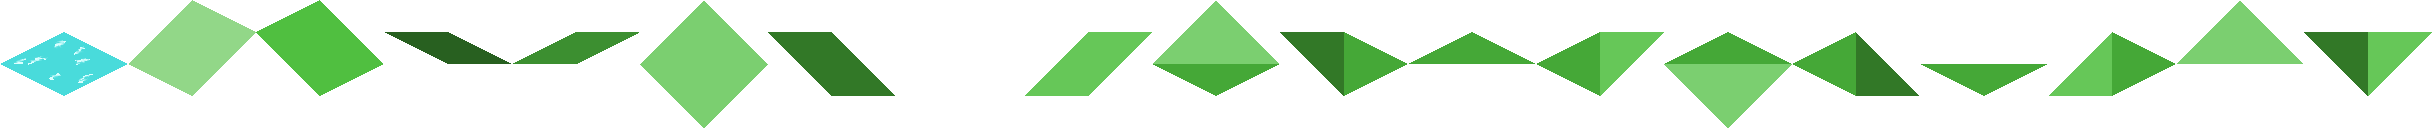
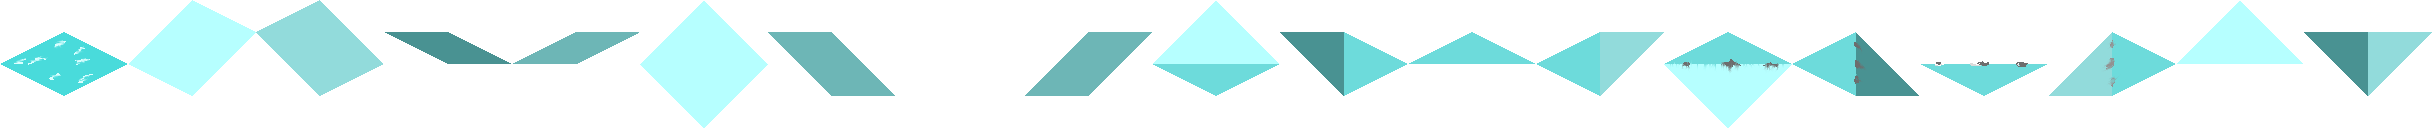
allowing back walls

Changed region(s): [[0.4062, 0.0312, 1.0, 0.9688], [0.0312, 0.0312, 0.375, 0.9688]]

diff --git a/src/terrain.py b/src/terrain.py
@@ -37,14 +37,18 @@ class WallShape(enum.IntEnum):
     WALL_S = 3
     WALL_W_N = 4
     WALL_S_E = 5
-    FRONT = 6
     WALL_E_N = 6
     WALL_N_E = 7
     WALL_E = 8
     WALL_N = 9
     WALL_E_S = 10
     WALL_N_W = 11
-    NUMBER_OF_IMAGES = 12
+
+    WALL_W_X = 12
+    WALL_S_X = 13
+    WALL_E_X = 14
+    WALL_N_X = 15
+
 
 WS = WallShape
 
@@ -100,24 +104,29 @@ ROTATED_SHAPES_SURFACE = [
 ]
 
 ROTATED_SHAPES_WALLS = [
-    (WS.WALL_W_S, WS.WALL_S_E, None, None),
-    (WS.WALL_S_W, None, None, WS.WALL_W_N),
+    (WS.WALL_W_S, WS.WALL_S_E, WS.WALL_E_N, WS.WALL_N_W),
+    (WS.WALL_S_W, WS.WALL_E_S, WS.WALL_N_E, WS.WALL_W_N),
     (WS.WALL_W, WS.WALL_S, WS.WALL_E, WS.WALL_N),
     (WS.WALL_S, WS.WALL_E, WS.WALL_N, WS.WALL_W),
-    (WS.WALL_W_N, WS.WALL_S_W, None, None),
-    (WS.WALL_S_E, None, None, WS.WALL_W_S),
+    (WS.WALL_W_N, WS.WALL_S_W, WS.WALL_E_S, WS.WALL_N_E),
+    (WS.WALL_S_E, WS.WALL_E_N, WS.WALL_N_W, WS.WALL_W_S),
 
-    (None, None, WS.WALL_W_S, WS.WALL_S_E),
-    (None, WS.WALL_W_N, WS.WALL_S_W, None),
+    (WS.WALL_E_N, WS.WALL_N_W, WS.WALL_W_S, WS.WALL_S_E),
+    (WS.WALL_N_E, WS.WALL_W_N, WS.WALL_S_W, WS.WALL_E_S),
     (WS.WALL_E, WS.WALL_N, WS.WALL_W, WS.WALL_S),
     (WS.WALL_N, WS.WALL_W, WS.WALL_S, WS.WALL_E),
-    (None, None, WS.WALL_W_N, WS.WALL_S_W),
-    (None, WS.WALL_W_S, WS.WALL_S_E, None),
+    (WS.WALL_E_S, WS.WALL_N_E, WS.WALL_W_N, WS.WALL_S_W),
+    (WS.WALL_N_W, WS.WALL_W_S, WS.WALL_S_E, WS.WALL_E_N),
+
+    (WS.WALL_W_X, WS.WALL_S_X, None, None),
+    (WS.WALL_S_X, None, None, WS.WALL_W_X),
+    (None, None, WS.WALL_W_X, WS.WALL_S_X),
+    (None, WS.WALL_W_X, WS.WALL_S_X, None),
 ]
 
 WALL_EXTENSION = [
-    WS.WALL_W, WS.WALL_S, WS.WALL_W, WS.WALL_S, WS.WALL_W, WS.WALL_S,
-    WS.WALL_E, WS.WALL_N, WS.WALL_E, WS.WALL_N, WS.WALL_E, WS.WALL_N,
+    WS.WALL_W_X, WS.WALL_S_X, WS.WALL_W_X, WS.WALL_S_X, WS.WALL_W_X, WS.WALL_S_X,
+    WS.WALL_E_X, WS.WALL_N_X, WS.WALL_E_X, WS.WALL_N_X, WS.WALL_E_X, WS.WALL_N_X,
 ]
 
 
@@ -138,6 +147,25 @@ SURFACE_MATERIALS = [
 WALL_MATERIALS = [
     ('dirt', 'art/cliff_dirt.png'),
     ('waterfall', 'art/cliff_waterfall.png'),
+]
+
+LAYOUT_WALL = [
+    ( (  0, 80, 64, 128), (64, 16) ),
+    ( ( 64, 80, 64, 128), ( 0, 16) ),
+    ( (128, 80, 64, 128), (64,  0) ),
+    ( (192, 80, 64, 128), ( 0,  0) ),
+    ( (256, 80, 64, 128), (64,  0) ),
+    ( (320, 80, 64, 128), ( 0,  0) ),
+
+    ( (320, 0, 64, 64), ( 0,  64) ),
+    ( (256, 0, 64, 64), (64,  64) ),
+    ( (192, 0, 64, 80), ( 0,  80) ),
+    ( (128, 0, 64, 80), (64,  80) ),
+    ( ( 64, 0, 64, 80), ( 0,  64) ),
+    ( (  0, 0, 64, 80), (64,  64) ),
+
+    ( (384, 80, 64, 128), (64,  0) ),
+    ( (448, 80, 64, 128), ( 0,  0) ),
 ]
 
 def load_assets():
@@ -168,8 +196,9 @@ def load_assets():
     for name, fname in WALL_MATERIALS:
         src = pygame.image.load(fname).convert_alpha()
         images[name] = [
-            (src.subsurface(pygame.Rect(i*64, 0, 64, 144)), X_OFFSET[i], 32)
-            for i in range(WallShape.NUMBER_OF_IMAGES)]
+                (src.subsurface(pygame.Rect(*r)),) + off
+                for r,off in LAYOUT_WALL]
+
 
 
 class TerrainElement:
@@ -198,10 +227,9 @@ class TerrainElement:
         return img
 
     def get_wall_images_and_height(self, view):
-        for wall, height, is_top in self.walls:
+        for wall, height in self.walls:
             if ROTATED_SHAPES_WALLS[wall][view.angle] is not None:
-                if ROTATED_SHAPES_WALLS[wall][view.angle] < WS.FRONT or is_top:
-                    yield images[self.wall_material][ROTATED_SHAPES_WALLS[wall][view.angle]], height
+                yield images[self.wall_material][ROTATED_SHAPES_WALLS[wall][view.angle]], height
 
     def __str__(self):
         return f'{self.__class__.__name__}(east={self.east}, north={self.north}, shape={self.shape.name}, corner_height={self.corner_height})'
@@ -263,10 +291,10 @@ class TerrainElement:
                 dh = max(a + 20, b + 20)
 
             if dh > 0:
-                self.walls.append((c, h, True))
+                self.walls.append((c, h))
                 h = 2*(h//2)
             for h0 in range(h-4, h-dh, -4):
-                self.walls.append((WALL_EXTENSION[c], h0, False))
+                self.walls.append((WALL_EXTENSION[c], h0))
 
     def subtile_at_pos(self, view, pos):
          subtile,_,_ = images['_subtile'][ROTATED_SHAPES_SURFACE[self.shape][view.angle]]
